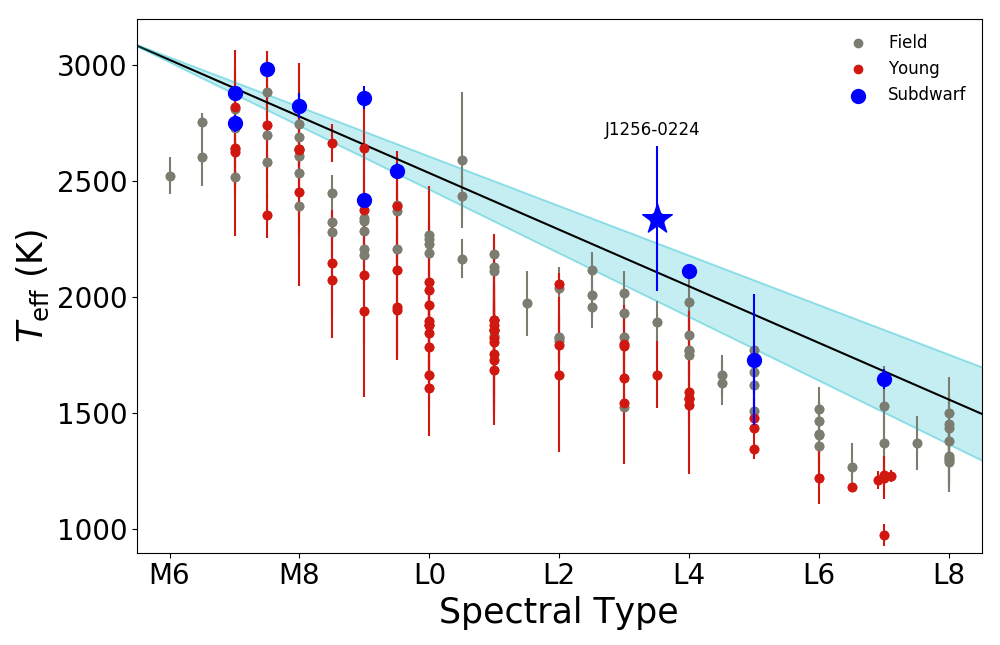
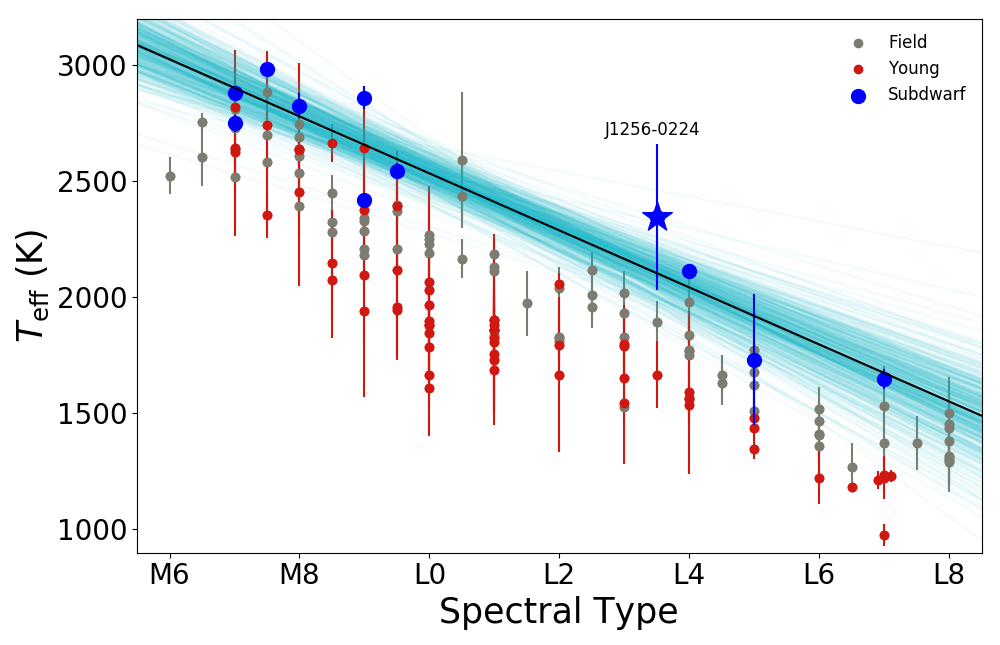
Added MCMC for fits

Changed region(s): [[0.124, 0.031, 0.992, 0.7442]]

diff --git a/SpTvTeff.py b/SpTvTeff.py
@@ -1,8 +1,16 @@
 import pandas as pd
 import matplotlib.pyplot as plt
+import emcee
 import numpy as np
+import pdb  # Use pdb.set_trace() to put a stop in the code like idl
+import corner
 
-df_sub = pd.read_csv('Data/Subdwarf_Spt_v_Teff.txt', sep=" ", comment='#', header=None,
+
+# Set as stop for debugging
+stop = pdb.set_trace  # stop() to run
+
+# ---------- Read in the data -------------
+df_sub = pd.read_csv('Data/Subdwarf_Spt_v_Teff.txt', sep="\s+", comment='#', header=None,
                      names=["name", "SpT", "Teff", 'Teff_err', 'lbol', 'lbol_err', 'mass', 'mass_unc', 'MJ', 'MJ_unc',
                             'MH', 'MH_unc', 'MK', 'MK_unc', 'MW1', 'MW1_unc', 'MW2', 'MW2_unc'])
 df_comb = pd.read_csv('Data/Lbol+Teff-February2017_updated.txt', sep="\s+", comment='#', header=None,
@@ -15,6 +23,93 @@ df_comb.set_value(174, 'grav', 3)
 # ---- Split combined dataframe into field (group 3) and low g groups 1,2) ----------
 df_fld = df_comb[(df_comb['grav'] == 3)]
 df_young = df_comb[(df_comb['grav'] >= 1) & (df_comb['grav'] <= 2)]
+
+# -------------------------------------------------------------------------------------
+# ------------------------- Polynomial fits  -----------------------------------------
+# -------------------------------------------------------------------------------------
+# ------ Fit polynomial for subdwarfs, use this as starting point for the emcee ------
+# drop nan from column need to get polynomial
+df_subpoly = df_sub[pd.notnull(df_sub['Teff'])]
+
+# --- Get uncertainites for upper and lower teff limits ----
+df_subpoly['Terr_up'] = df_subpoly['Teff'] + df_subpoly['Teff_err']
+df_subpoly['Terr_d'] = df_subpoly['Teff'] - df_subpoly['Teff_err']
+
+# ------ Fit the values --------
+coeffs = np.polyfit(df_subpoly['SpT'], df_subpoly['Teff'], 1)
+line = np.poly1d(coeffs)
+
+coeffs_up = np.polyfit(df_subpoly['SpT'], df_subpoly['Terr_up'], 1)
+line_up = np.poly1d(coeffs_up)
+
+coeffs_d = np.polyfit(df_subpoly['SpT'], df_subpoly['Terr_d'], 1)
+line_d = np.poly1d(coeffs_d)
+
+# ---- print values to screen to use for emcee -------
+print coeffs
+print coeffs_up
+print coeffs_d
+
+# -----Plotting (not correct values, from W1 for example)
+# xp = np.linspace(5, 30, 100)
+#
+# # define the uncertainty range based on the values from the calcuated uncertainties on the coeffs. (See my table)
+# fit = 0.266*xp + 7.270
+# up = 0.323*xp + 7.648
+# down = 0.209*xp + 6.892
+#
+# plt.plot(xp, fit, color='k')
+# plt.plot(xp, up, color='#17becf', alpha=.25)
+# plt.plot(xp, down, color='#17becf', alpha=.25)
+# ax1.fill_between(xp, up, down, alpha=.25, color='#17becf')
+
+# -------------------------------------------------------------------------------------
+# ------------------------------ Use emcee to fit instead -----------------------------
+# -------------------------------------------------------------------------------------
+
+# Define the likelihood function: a line y=mx+b
+
+
+def lnprob(x, teff, teff_err, spt):
+    if x[2] < 0:
+        return -np.inf
+    model_line = x[0]*spt + x[1]
+    sigma_dm = (teff - model_line)/np.sqrt(teff_err**2+x[2]**2)  # Distance between the data points and the model line
+    return -(1./2.)*sum(np.log(x[2]**2+teff_err**2))-(1./2.)*sum(sigma_dm**2)-np.log(x[2])  # np.log(x[2]) is an uninformative prior on the intrinsic dispersion
+                                                    # It favors large numbers less
+
+# Define the parameters we need to imput into the mcmc
+ndim = 3  # Number of parameters in my lnprob after the x
+nwalkers = 12
+nsteps = 1000  # this is a standard starting point of 1000
+
+parm_est = [-120, 4000, 0]  # This is my estimate on the slope and y-intercept from my polyfits
+parm_scale = [12, 500, 100]  # the scatter about my estimated start points 10% for teff, 500 Degrees for K
+parm_scale_2d = np.array(parm_scale).reshape(1, ndim).repeat(nwalkers, axis=0)  # Create a 2D array of values with
+parm_est_2d = np.array(parm_est).reshape(1, ndim).repeat(nwalkers, axis=0)      # nwalkers rows
+pos = parm_est_2d + np.random.rand(nwalkers, ndim)*parm_scale_2d
+
+
+# Start the mcmc add .values to the pandas dataframe to convert to numpy array
+# Use the df_subpoly array that has removed the nans before can rum the mcmc
+sampler = emcee.EnsembleSampler(nwalkers, ndim, lnprob, args=(df_subpoly['Teff'].values,
+                                                              df_subpoly['Teff_err'].values,df_subpoly['SpT'].values))
+sampler.run_mcmc(pos, nsteps)
+
+# Check what the burn in is so it can be thrown out
+labels = ["slope", "intercept", 'dispersion']
+for k in range(ndim):
+    plt.figure()
+    for n in range(nwalkers):
+        plt.plot(sampler.chain[n,:,k])
+    plt.ylabel(labels[k], fontsize='16')
+    plt.xlabel("step number", fontsize='12')
+
+# Burn in was around 50 steps, so drop 200 to be safe them from the chain
+samples = sampler.chain[:, 200:, :].reshape((-1, ndim))
+
+# Check the corner plot of the chain
+figcheck = corner.corner(samples, labels=["$m$", "$b$",'dispersion'])
 
 # -------------------------------------------------------------------------------------
 # ------------------------- Make Plot: Spt v Teff -------------------------------------
@@ -49,38 +144,19 @@ ax1.annotate('J1256-0224', xy=(12.7, 2700), color='k', fontsize=12)
 # ---- Add Legend ----
 plt.legend([fld, young, sub], ["Field", "Young", 'Subdwarf'], frameon=False, fontsize=12)
 
-# -------------------------------------------------------------------------------------
-# ------------------------- Polynomial fits  -----------------------------------------
-# -------------------------------------------------------------------------------------
-# ------ Fit polynomial for subdwarfs ------
-# drop nan from column need to get polynomial
-df_subpoly = df_sub[pd.notnull(df_sub['Teff'])]
+# ---- Plot fit lines  from the mcmc, random 100 -----
+xl = np.array([0, 20])
+for x in samples[np.random.randint(len(samples), size=500)]:
+    plt.plot(xl, x[0]*xl+x[1], color="#17becf", alpha=0.05)
 
-# --- Get uncertainites for upper and lower teff limits ----
-df_subpoly['Terr_up'] = df_subpoly['Teff'] + df_subpoly['Teff_err']
-df_subpoly['Terr_d'] = df_subpoly['Teff'] - df_subpoly['Teff_err']
+# To get the best fit line
+best_fit_coeffs = np.median(samples, axis=0)
+best_fit_line = best_fit_coeffs[0]*xl + best_fit_coeffs[1]
+plt.plot(xl, best_fit_line, c='k', zorder=8)
 
-# ------ Fit the values --------
-coeffs = np.polyfit(df_subpoly['SpT'], df_subpoly['Teff'], 1)
-line = np.poly1d(coeffs)
-
-coeffs_up = np.polyfit(df_subpoly['SpT'], df_subpoly['Terr_up'], 1)
-line_up = np.poly1d(coeffs_up)
-
-coeffs_d = np.polyfit(df_subpoly['SpT'], df_subpoly['Terr_d'], 1)
-line_d = np.poly1d(coeffs_d)
-
-# ---- print values to screen -------
-print coeffs
-print coeffs_up
-print coeffs_d
-
-# ---- Plot the fit lines -----
-xp = np.linspace(5, 30, 100)
-plt.plot(xp, line(xp), '-', color='k')
-plt.plot(xp, line_up(xp), '-', color='#17becf', alpha=.25)
-plt.plot(xp, line_d(xp), '-', color='#17becf', alpha=.25)
-ax1.fill_between(xp, line_up(xp), line_d(xp), alpha=.25, color='#17becf')
+# ---- Print the best fit coeffs and the std -----
+print(best_fit_coeffs)
+print(np.std(samples, axis=0))
 
 plt.tight_layout()
 plt.savefig('Plots/SptvTeff.png')
